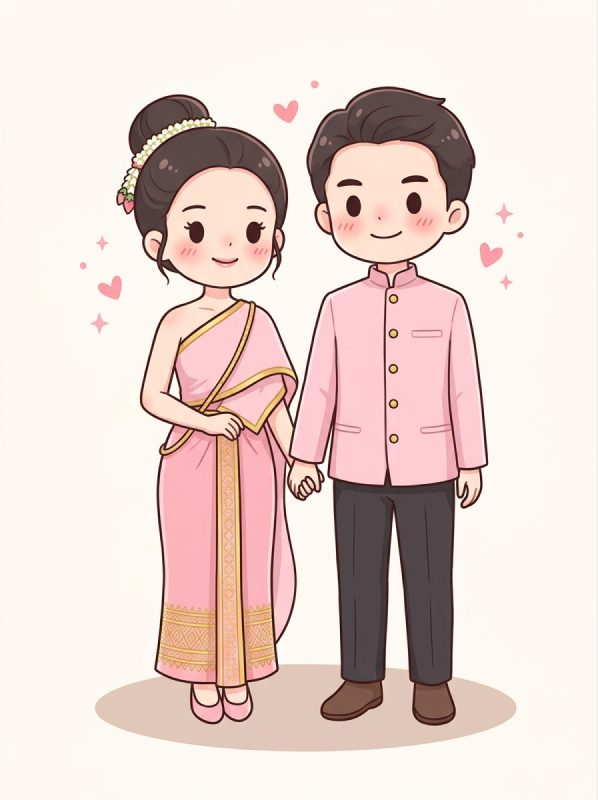
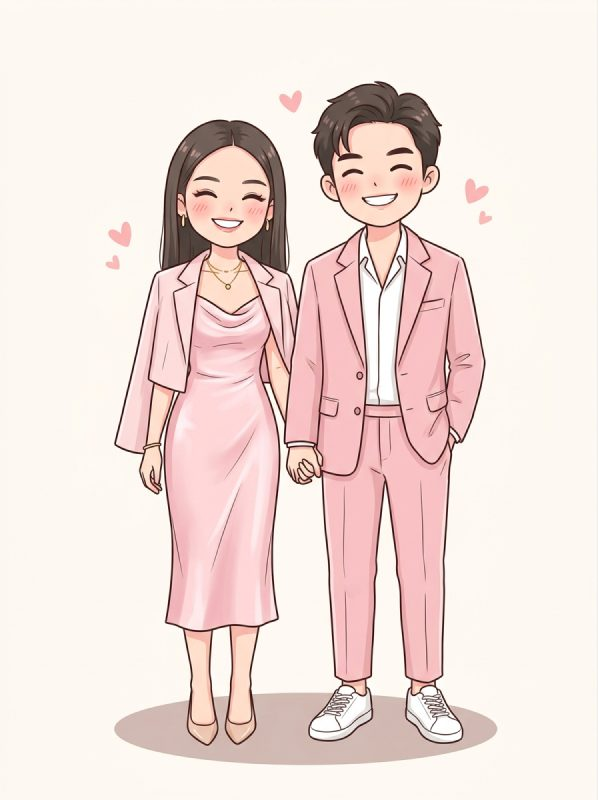
Closable modern-only lookbook; themed location and calendar cards
- Lookbook gets a close button and closes when its colour is tapped again
- Traditional Thai looks removed; new modern baby-pink look added
- Venue and parking become arched cards with animated icons; the
  calendar button becomes a date-tile card with a shimmer

Claude-Session: https://claude.ai/code/session_017eVNXPk7p5hVmngT8q2Qgj

diff --git a/index.html b/index.html
@@ -184,6 +184,12 @@ button.slot:focus-visible{outline:2px solid var(--rose-deep);outline-offset:3px}
 .lookbook .lk-dots{display:flex;justify-content:center;gap:6px;margin-top:8px}
 .lookbook .lk-dots i{width:6px;height:6px;border-radius:50%;background:var(--line)}
 .lookbook .lk-dots i.on{background:var(--rose);width:16px;border-radius:3px}
+.lookbook{animation:lkin .35s ease both}
+.lookbook.closing{animation:lkout .26s ease both}
+@keyframes lkin{from{opacity:0;transform:translateY(-6px) scale(.98)}to{opacity:1;transform:none}}
+@keyframes lkout{to{opacity:0;transform:translateY(-6px) scale(.98)}}
+.lookbook .lk-x{position:absolute;top:8px;right:8px;width:34px;height:34px;border-radius:50%;border:1px solid var(--line);background:var(--sheet);color:var(--rose-deep);font-size:20px;line-height:1;cursor:pointer;display:grid;place-items:center;transition:background .2s,color .2s,transform .2s;z-index:2}
+.lookbook .lk-x:hover,.lookbook .lk-x:focus-visible{background:var(--rose);color:#fff;transform:rotate(90deg)}
 .lookbook .lk-name{font-family:var(--f-thai-accent);color:var(--rose-deep);font-size:18px;margin-bottom:4px}
 .lookbook .again{margin-top:10px;display:inline-flex;align-items:center;gap:6px;padding:7px 14px;border-radius:999px;border:1px solid var(--rose);background:var(--sheet);color:var(--rose-deep);font:inherit;font-size:13px;cursor:pointer}
 .lookbook .again:hover,.lookbook .again:focus-visible{background:var(--rose);color:#fff}
@@ -193,15 +199,43 @@ button.slot:focus-visible{outline:2px solid var(--rose-deep);outline-offset:3px}
 @media (prefers-reduced-motion:reduce){.lookbook *{animation:none!important}}
 
 /* places */
-.places{display:grid;grid-template-columns:1fr 1fr;gap:12px;margin-top:4px}
-.btn{display:flex;flex-direction:column;align-items:center;gap:4px;padding:16px 10px;border:1px solid var(--rose);color:var(--rose-deep);text-decoration:none;background:var(--sheet);transition:background .2s,color .2s;font-size:15px;line-height:1.4;cursor:pointer;font-family:inherit}
-.btn small{color:var(--ink-soft);font-size:12px}
-.btn svg{width:24px;height:24px;stroke:currentColor;fill:none;stroke-width:1.4}
-.btn:hover,.btn:focus-visible{background:var(--rose);color:#fff}
-.btn:hover small,.btn:focus-visible small{color:#fff}
-.btn:focus-visible{outline:2px solid var(--rose-deep);outline-offset:3px}
-.btn.solid{background:var(--rose);color:#fff;grid-column:1/-1;flex-direction:row;justify-content:center;gap:10px}
-.btn.solid:hover{background:var(--rose-deep)}
+.places{display:grid;grid-template-columns:1fr 1fr;gap:14px;margin-top:8px}
+.place{position:relative;display:flex;flex-direction:column;align-items:center;gap:2px;padding:22px 10px 16px;border-radius:90px 90px 18px 18px;background:linear-gradient(180deg,#fdeef0 0%,var(--sheet) 70%);color:var(--ink);text-decoration:none;box-shadow:0 1px 0 var(--line),0 14px 26px -18px rgba(150,70,80,.55);transition:transform .3s cubic-bezier(.3,1.5,.5,1),box-shadow .3s;min-width:0}
+.place::before{content:"";position:absolute;inset:6px;border-radius:inherit;border:1px dashed rgba(192,118,124,.45);pointer-events:none}
+.place:hover,.place:focus-visible{transform:translateY(-4px);box-shadow:0 1px 0 var(--line),0 20px 30px -16px rgba(150,70,80,.6)}
+.place:focus-visible{outline:2px solid var(--rose-deep);outline-offset:3px}
+.pl-ico{width:58px;height:58px;border-radius:50%;background:var(--sheet);display:grid;place-items:center;box-shadow:0 6px 14px -8px rgba(150,70,80,.6),inset 0 0 0 1px #f3d6da;margin-bottom:6px}
+.pl-ico svg{width:36px;height:36px;overflow:visible}
+.pl-ico .pin{fill:#f6c2cb;stroke:var(--rose-deep);stroke-width:1.3;transform-origin:20px 36px;transform-box:view-box}
+.pl-ico .hrt{fill:#fff}
+.place:hover .pin,.place:focus-visible .pin{animation:pinhop .7s cubic-bezier(.3,1.6,.5,1)}
+@keyframes pinhop{30%{transform:translateY(-5px) scaleY(1.05)}60%{transform:translateY(0) scaleY(.94)}}
+.pl-ico .car{fill:#f6c2cb;stroke:var(--rose-deep);stroke-width:1.3;stroke-linejoin:round}
+.pl-ico .win{fill:#fff;stroke:var(--rose-deep);stroke-width:1}
+.pl-ico .whl{fill:#fff;stroke:var(--rose-deep);stroke-width:1.4}
+.pl-ico .p{fill:none;stroke:#8fae8b;stroke-width:1.8;stroke-linecap:round}
+.place:hover .pl-ico svg{animation:carroll .8s ease}
+@keyframes carroll{40%{transform:translateX(3px)}70%{transform:translateX(-1px)}}
+.pl-eb{font-family:var(--f-display);font-size:11px;letter-spacing:.24em;text-transform:uppercase;color:var(--ink-soft)}
+.place b{font-family:var(--f-thai-accent);font-weight:400;font-size:19px;color:var(--rose-deep);line-height:1.3}
+.pl-go{display:inline-flex;align-items:center;gap:4px;margin-top:6px;padding:4px 12px;border-radius:999px;background:var(--rose);color:#fff;font-size:12px;transition:gap .2s}
+.pl-go svg{width:12px;height:12px;stroke:#fff;fill:none;stroke-width:2;stroke-linecap:round}
+.place:hover .pl-go{gap:8px}
+.save-date{position:relative;overflow:hidden;grid-column:1/-1;display:flex;align-items:center;gap:14px;padding:12px 14px 12px 12px;border-radius:18px;background:linear-gradient(120deg,#c87b84,#e39aa3 55%,#f0b9a8);color:#fff;text-decoration:none;text-align:left;box-shadow:0 14px 26px -16px rgba(150,70,80,.7);transition:transform .3s cubic-bezier(.3,1.5,.5,1)}
+.save-date::after{content:"";position:absolute;inset:0;background:linear-gradient(105deg,transparent 40%,rgba(255,255,255,.35) 50%,transparent 60%) 0 0/250% 100% no-repeat;animation:sheen 5s ease-in-out 1.5s infinite;pointer-events:none}
+.save-date:hover,.save-date:focus-visible{transform:translateY(-3px)}
+.save-date:focus-visible{outline:2px solid var(--rose-deep);outline-offset:3px}
+.sd-tile{flex:none;width:58px;border-radius:10px;background:#fff;color:var(--ink);text-align:center;overflow:hidden;box-shadow:0 4px 10px -4px rgba(90,30,40,.4);line-height:1}
+.sd-tile i{display:block;font-style:normal;font-family:var(--f-display);font-size:11px;letter-spacing:.2em;padding:4px 0 3px;background:var(--rose-deep);color:#fff}
+.sd-tile b{display:block;font-family:"Cormorant Garamond",Georgia,serif;font-weight:700;font-size:28px;padding:4px 0 0;color:var(--rose-deep)}
+.sd-tile em{display:block;font-style:normal;font-size:10px;letter-spacing:.12em;color:var(--ink-soft);padding:1px 0 5px}
+.sd-txt{flex:1;min-width:0;display:flex;flex-direction:column;gap:2px}
+.sd-txt b{font-family:var(--f-thai-accent);font-weight:400;font-size:20px;line-height:1.2}
+.sd-txt small{font-size:12.5px;opacity:.92}
+.sd-plus{flex:none;width:36px;height:36px;border-radius:50%;background:rgba(255,255,255,.22);display:grid;place-items:center;transition:transform .3s}
+.sd-plus svg{width:18px;height:18px;stroke:#fff;fill:none;stroke-width:2;stroke-linecap:round}
+.save-date:hover .sd-plus{transform:rotate(90deg)}
+@media (max-width:400px){.places{gap:10px}.place b{font-size:17px}.pl-ico{width:50px;height:50px}.pl-ico svg{width:30px;height:30px}}
 
 .foot{padding:28px 28px clamp(150px,40vw,210px);font-size:14px;color:var(--ink-soft)}
 .foot .sig{font-family:var(--f-script);font-size:40px;color:var(--rose);line-height:1.2;margin-top:6px}
@@ -582,7 +616,7 @@ button.slot:focus-visible{outline:2px solid var(--rose-deep);outline-offset:3px}
       <button class="sw" type="button" data-c="#ef8a95" data-n="ชมพูกุหลาบ" aria-pressed="false"><i style="background:var(--coral)"></i>ชมพูกุหลาบ</button>
       <button class="sw" type="button" data-c="#fbdcc0" data-n="พีช" aria-pressed="false"><i style="background:var(--peach)"></i>พีช</button>
     </div>
-    <p class="sw-hint" id="swHint">แตะที่สีเพื่อดูไอเดียการแต่งกาย ♡</p>
+    <p class="sw-hint" id="swHint">แตะที่สีเพื่อดูไอเดียการแต่งกาย ♡ แตะซ้ำเพื่อปิด</p>
     <div class="lookbook" id="lookbook" hidden aria-live="polite"></div>
   </section>
 
@@ -592,16 +626,24 @@ button.slot:focus-visible{outline:2px solid var(--rose-deep);outline-offset:3px}
     <div class="eyebrow">Location</div>
     <h2 id="h-loc">การเดินทาง</h2>
     <div class="places">
-      <a class="btn" href="https://maps.app.goo.gl/EVcHE8BgnWFP1dCw8" target="_blank" rel="noopener">
-        <svg viewBox="0 0 24 24"><path d="M12 21s-7-6.2-7-11.5A7 7 0 0 1 19 9.5C19 14.8 12 21 12 21z"/><circle cx="12" cy="9.5" r="2.5"/></svg>
-        สถานที่จัดงาน<small>เปิด Google Maps</small></a>
-      <a class="btn" href="https://maps.app.goo.gl/TGSBbuWbJyJSLqjL9" target="_blank" rel="noopener">
-        <svg viewBox="0 0 24 24"><rect x="4" y="4" width="16" height="16" rx="3"/><path d="M10 17V7h3.2a3 3 0 0 1 0 6H10"/></svg>
-        สถานที่จอดรถ<small>เปิด Google Maps</small></a>
-      <a class="btn solid" target="_blank" rel="noopener"
+      <a class="place" href="https://maps.app.goo.gl/EVcHE8BgnWFP1dCw8" target="_blank" rel="noopener">
+        <span class="pl-ico"><svg viewBox="0 0 40 40" aria-hidden="true"><path class="pin" d="M20 36s-11-9.6-11-18a11 11 0 0 1 22 0c0 8.4-11 18-11 18z"/><path class="hrt" d="M20 23.5c-4-2.9-5.6-4.9-5.6-7a3 3 0 0 1 5.6-1.4 3 3 0 0 1 5.6 1.4c0 2.1-1.6 4.1-5.6 7z"/></svg></span>
+        <span class="pl-eb">Ceremony</span>
+        <b>สถานที่จัดงาน</b>
+        <span class="pl-go">เปิดแผนที่<svg viewBox="0 0 16 16" aria-hidden="true"><path d="M5 3l5 5-5 5"/></svg></span>
+      </a>
+      <a class="place" href="https://maps.app.goo.gl/TGSBbuWbJyJSLqjL9" target="_blank" rel="noopener">
+        <span class="pl-ico"><svg viewBox="0 0 40 40" aria-hidden="true"><path class="car" d="M8 25v-4.5l3-6.5c.6-1.3 1.6-2 3-2h12c1.4 0 2.4.7 3 2l3 6.5V25a2 2 0 0 1-2 2H10a2 2 0 0 1-2-2z"/><path class="win" d="M12.5 20l2.2-5h10.6l2.2 5z"/><circle class="whl" cx="13.5" cy="27" r="3"/><circle class="whl" cx="26.5" cy="27" r="3"/><path class="p" d="M30 6v8M30 6h2.6a2.4 2.4 0 0 1 0 4.8H30"/></svg></span>
+        <span class="pl-eb">Parking</span>
+        <b>สถานที่จอดรถ</b>
+        <span class="pl-go">เปิดแผนที่<svg viewBox="0 0 16 16" aria-hidden="true"><path d="M5 3l5 5-5 5"/></svg></span>
+      </a>
+      <a class="save-date" target="_blank" rel="noopener"
          href="https://calendar.google.com/calendar/render?action=TEMPLATE&amp;text=%E0%B8%87%E0%B8%B2%E0%B8%99%E0%B9%81%E0%B8%95%E0%B9%88%E0%B8%87%20Plookrak%20%26%20Beer&amp;dates=20270117T000000Z/20270117T060000Z&amp;ctz=Asia/Bangkok&amp;details=%E0%B8%9E%E0%B8%B4%E0%B8%98%E0%B8%B5%E0%B8%AA%E0%B8%87%E0%B8%86%E0%B9%8C%2007.00%20%E0%B8%99.%0A%E0%B9%81%E0%B8%9C%E0%B8%99%E0%B8%97%E0%B8%B5%E0%B9%88%3A%20https%3A%2F%2Fmaps.app.goo.gl%2FEVcHE8BgnWFP1dCw8&amp;location=https%3A%2F%2Fmaps.app.goo.gl%2FEVcHE8BgnWFP1dCw8">
-        <svg viewBox="0 0 24 24"><rect x="4" y="5" width="16" height="15" rx="2"/><path d="M4 10h16M9 3v4M15 3v4M12 13v4M10 15h4"/></svg>
-        บันทึกลงปฏิทิน</a>
+        <span class="sd-tile" aria-hidden="true"><i>JAN</i><b>17</b><em>2027</em></span>
+        <span class="sd-txt"><b>บันทึกลงปฏิทิน</b><small>อาทิตย์ 17 ม.ค. 2570 · 07.00 น.</small></span>
+        <span class="sd-plus" aria-hidden="true"><svg viewBox="0 0 24 24"><path d="M12 5v14M5 12h14"/></svg></span>
+      </a>
     </div>
   </section>
 
@@ -877,15 +919,13 @@ tick();
   const LOOKS = {
     'ชมพูอ่อน': [
       {src:'looks/pink-1.jpg', her:'เดรสยาวชีฟองสายเดี่ยว', him:'สูทสองชิ้น + เนคไท'},
-      {src:'looks/pink-2.jpg', her:'ชุดไทยสไบ + ผ้าซิ่น', him:'ชุดราชปะแตน'},
+      {src:'looks/pink-2.jpg', her:'สลิปเดรสซาติน + เบลเซอร์คลุมไหล่', him:'เบลเซอร์ทรงหลวม + สนีกเกอร์ขาว'},
       {src:'looks/pink-3.jpg', her:'เดรสแขนตุ๊กตา กระโปรงบาน', him:'เสื้อกั๊ก + โบว์ไท'}],
     'ชมพูกุหลาบ': [
       {src:'looks/rose-1.jpg', her:'เดรสเปิดไหล่ระบาย', him:'สูทสลิม + ดอกไม้ติดอก'},
-      {src:'looks/rose-2.jpg', her:'ชุดไทยสไบปักทอง', him:'ชุดราชปะแตน'},
       {src:'looks/rose-3.jpg', her:'จั๊มสูทขากว้าง', him:'เชิ้ตลินินพับแขน + ชิโน่'}],
     'พีช': [
       {src:'looks/peach-1.jpg', her:'ชุดราตรีผ้าทูลล์ปักดอกไม้', him:'เสื้อกั๊ก + โบว์ไท'},
-      {src:'looks/peach-2.jpg', her:'ชุดไทยสไบ + เข็มขัดทอง', him:'ชุดราชปะแตน'},
       {src:'looks/peach-3.jpg', her:'เบลาส์แขนพอง + กระโปรงพลีท', him:'สูทลินินลำลอง'}]
   };
   /* warm the cache so the first tap shows instantly */
@@ -900,15 +940,24 @@ tick();
     let k; do { k = Math.floor(Math.random() * list.length); } while (list.length > 1 && k === last[name]);
     last[name] = k; const L = list[k];
     box.style.setProperty('--lk', c); box.style.setProperty('--lk-l', mix(c, '#ffffff', .7));
-    box.innerHTML = `<div class="lk-name">โทน${name}</div>
+    box.innerHTML = `<button class="lk-x" type="button" aria-label="ปิดตัวอย่างการแต่งกาย">×</button><div class="lk-name">โทน${name}</div>
       <div class="lk-pic"><img class="who pop" src="${L.src}" width="598" height="800" alt="ภาพการ์ตูนคู่ชายหญิงแต่งกายโทน${name}: ผู้หญิง${L.her} ผู้ชาย${L.him}"></div>
       <div class="lk-caps"><span><b>Her</b>${L.her}</span><span class="lk-h" aria-hidden="true">♡</span><span><b>Him</b>${L.him}</span></div>
       <div class="lk-dots" aria-hidden="true">${list.map((_, i) => `<i class="${i === k ? 'on' : ''}"></i>`).join('')}</div>
       <button class="again" type="button">${DICE}สุ่มแบบใหม่</button>`;
     box.hidden = false;
     box.querySelector('.again').addEventListener('click', () => show(btn));
+    box.querySelector('.lk-x').addEventListener('click', close);
+  }
+  function close(){
+    box.classList.add('closing');
+    setTimeout(() => { box.hidden = true; box.classList.remove('closing'); box.innerHTML = ''; }, 260);
+    document.querySelectorAll('.sw').forEach(b => b.setAttribute('aria-pressed', 'false'));
+    document.getElementById('swHint').hidden = false;
   }
   document.querySelectorAll('.sw').forEach(btn => btn.addEventListener('click', () => {
+    /* tapping the colour that is already open closes the preview */
+    if (btn.getAttribute('aria-pressed') === 'true' && !box.hidden){ close(); return; }
     document.querySelectorAll('.sw').forEach(b => b.setAttribute('aria-pressed', String(b === btn)));
     document.getElementById('swHint').hidden = true;
     show(btn);
